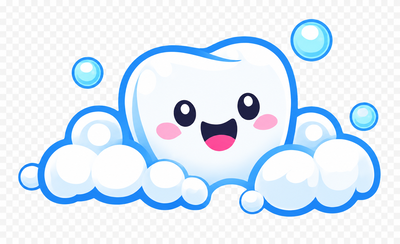
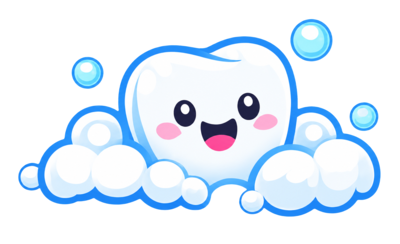
Ensure mascot image displays with a fully transparent background
Update the mascot image to have a transparent background and apply corresponding transparent styling to the image and its parent elements in the Brush component.

Replit-Commit-Author: Agent
Replit-Commit-Session-Id: 6b2b0b32-5c4c-4d94-8c03-35e28de411cd
Replit-Commit-Checkpoint-Type: full_checkpoint
Replit-Commit-Event-Id: e301ffe0-3405-4b59-9de7-1822dc77176b
Replit-Commit-Screenshot-Url: https://storage.googleapis.com/screenshot-production-us-central1/ab639eb6-7028-4a40-8490-d68e794c7924/6b2b0b32-5c4c-4d94-8c03-35e28de411cd/dU1N2zJ
Replit-Helium-Checkpoint-Created: true

diff --git a/artifacts/brushpop/src/pages/Brush.tsx b/artifacts/brushpop/src/pages/Brush.tsx
@@ -492,16 +492,18 @@ export default function Brush() {
             position: "fixed",
             top: "38%",
             zIndex: 16,
+            background: "transparent",
+            backgroundColor: "transparent",
             animation: `${mascotState.fromLeft ? "mascot-slide-ltr" : "mascot-slide-rtl"} 3s linear forwards`,
             ...(mascotState.fromLeft ? {} : { transform: "scaleX(-1)" }),
           }}
         >
-          <div style={{ animation: "mascot-bob 0.4s ease-in-out infinite" }}>
+          <div style={{ animation: "mascot-bob 0.4s ease-in-out infinite", background: "transparent", backgroundColor: "transparent" }}>
             <img
               src="/assets/Bubble_Pop_Mascot.png"
               alt=""
               draggable={false}
-              style={{ height: 80, width: "auto", display: "block" }}
+              style={{ height: 80, width: "auto", display: "block", background: "transparent", backgroundColor: "transparent", mixBlendMode: "normal" }}
             />
           </div>
         </div>
